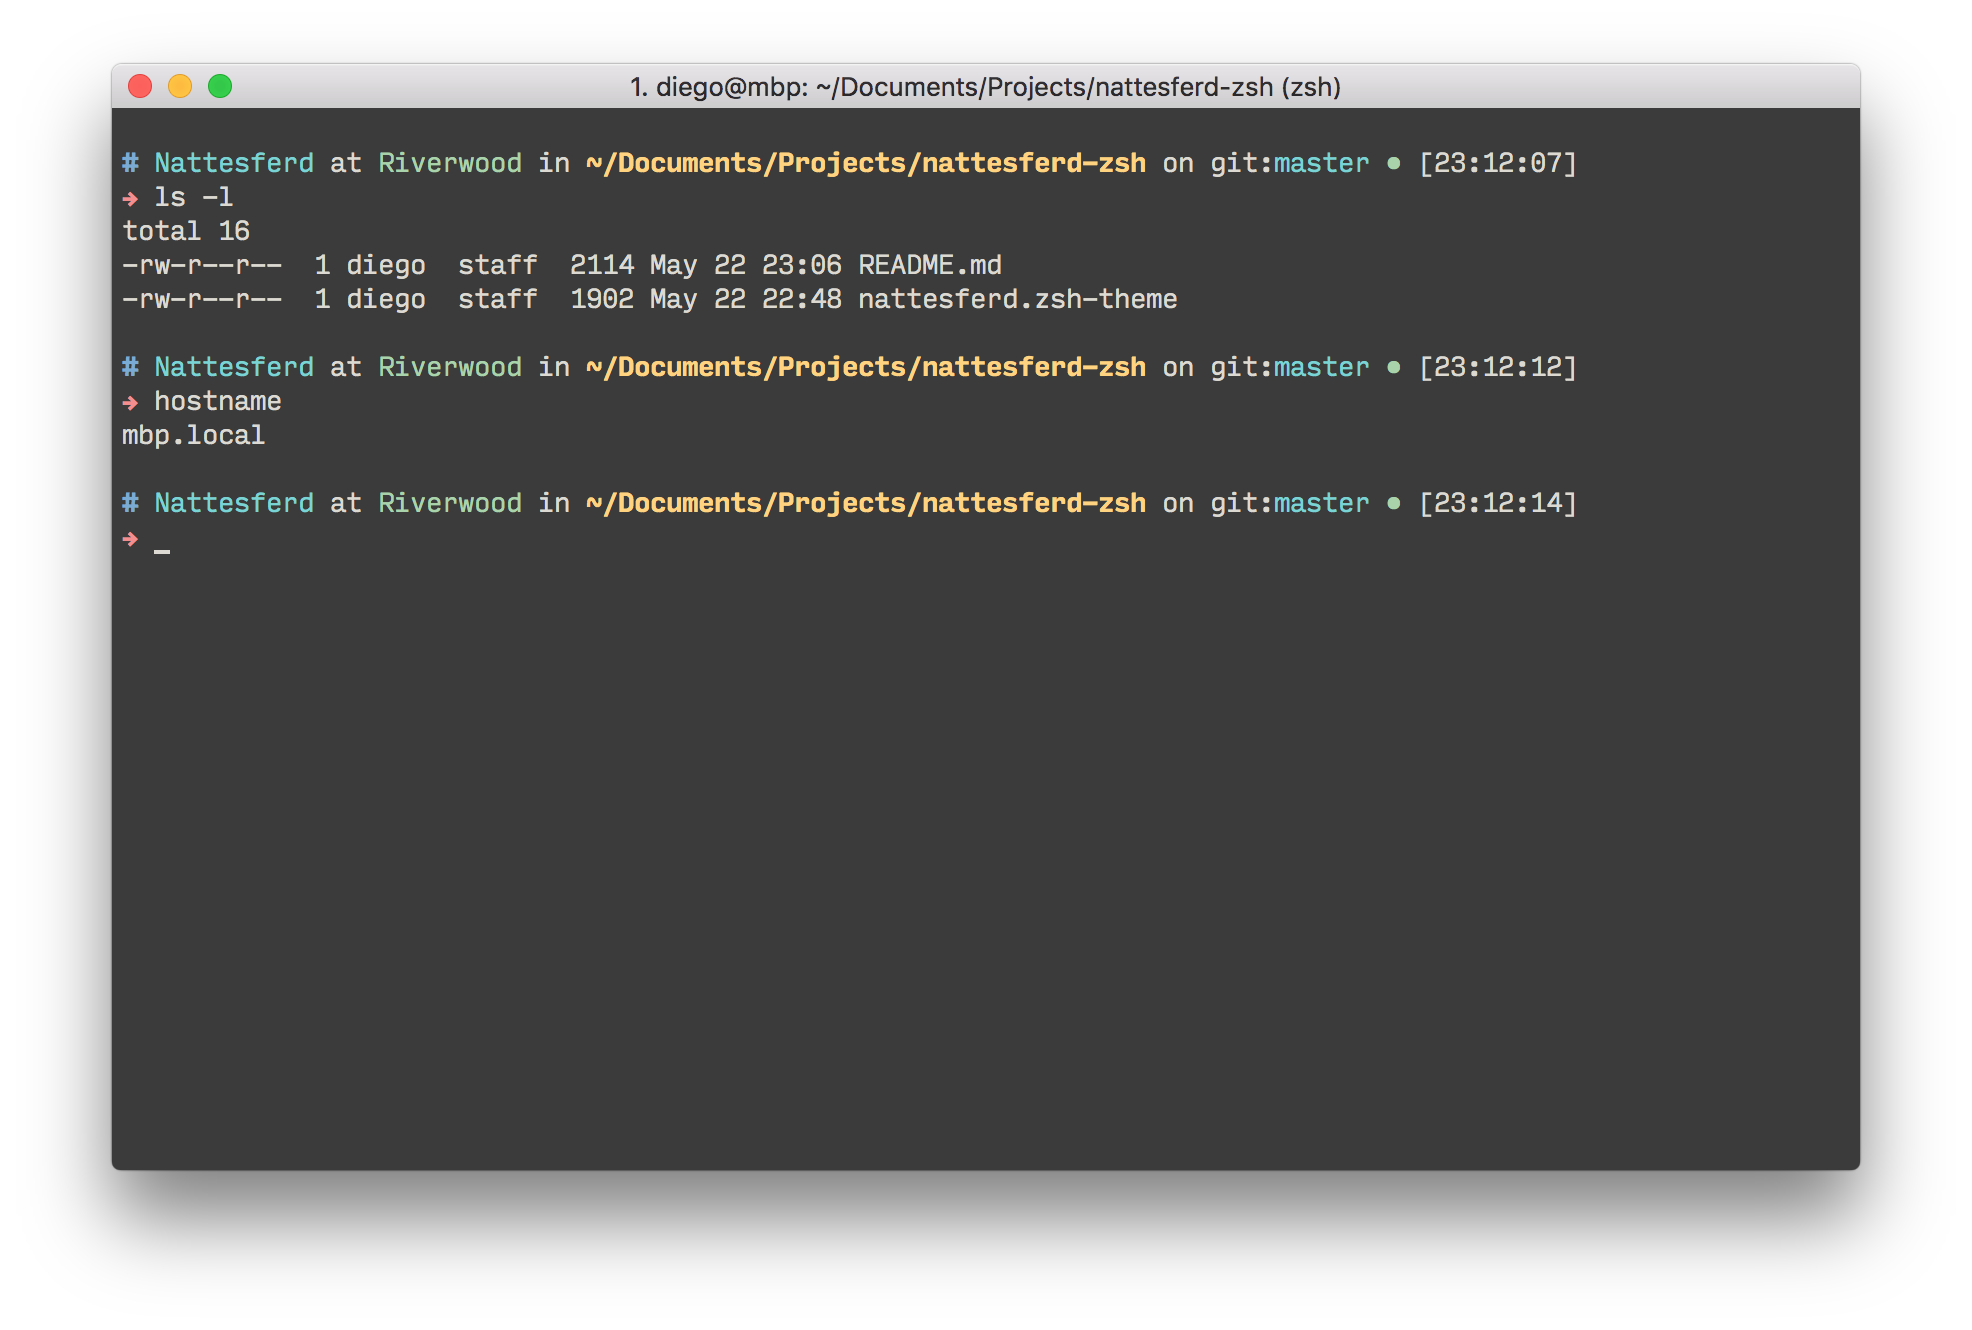
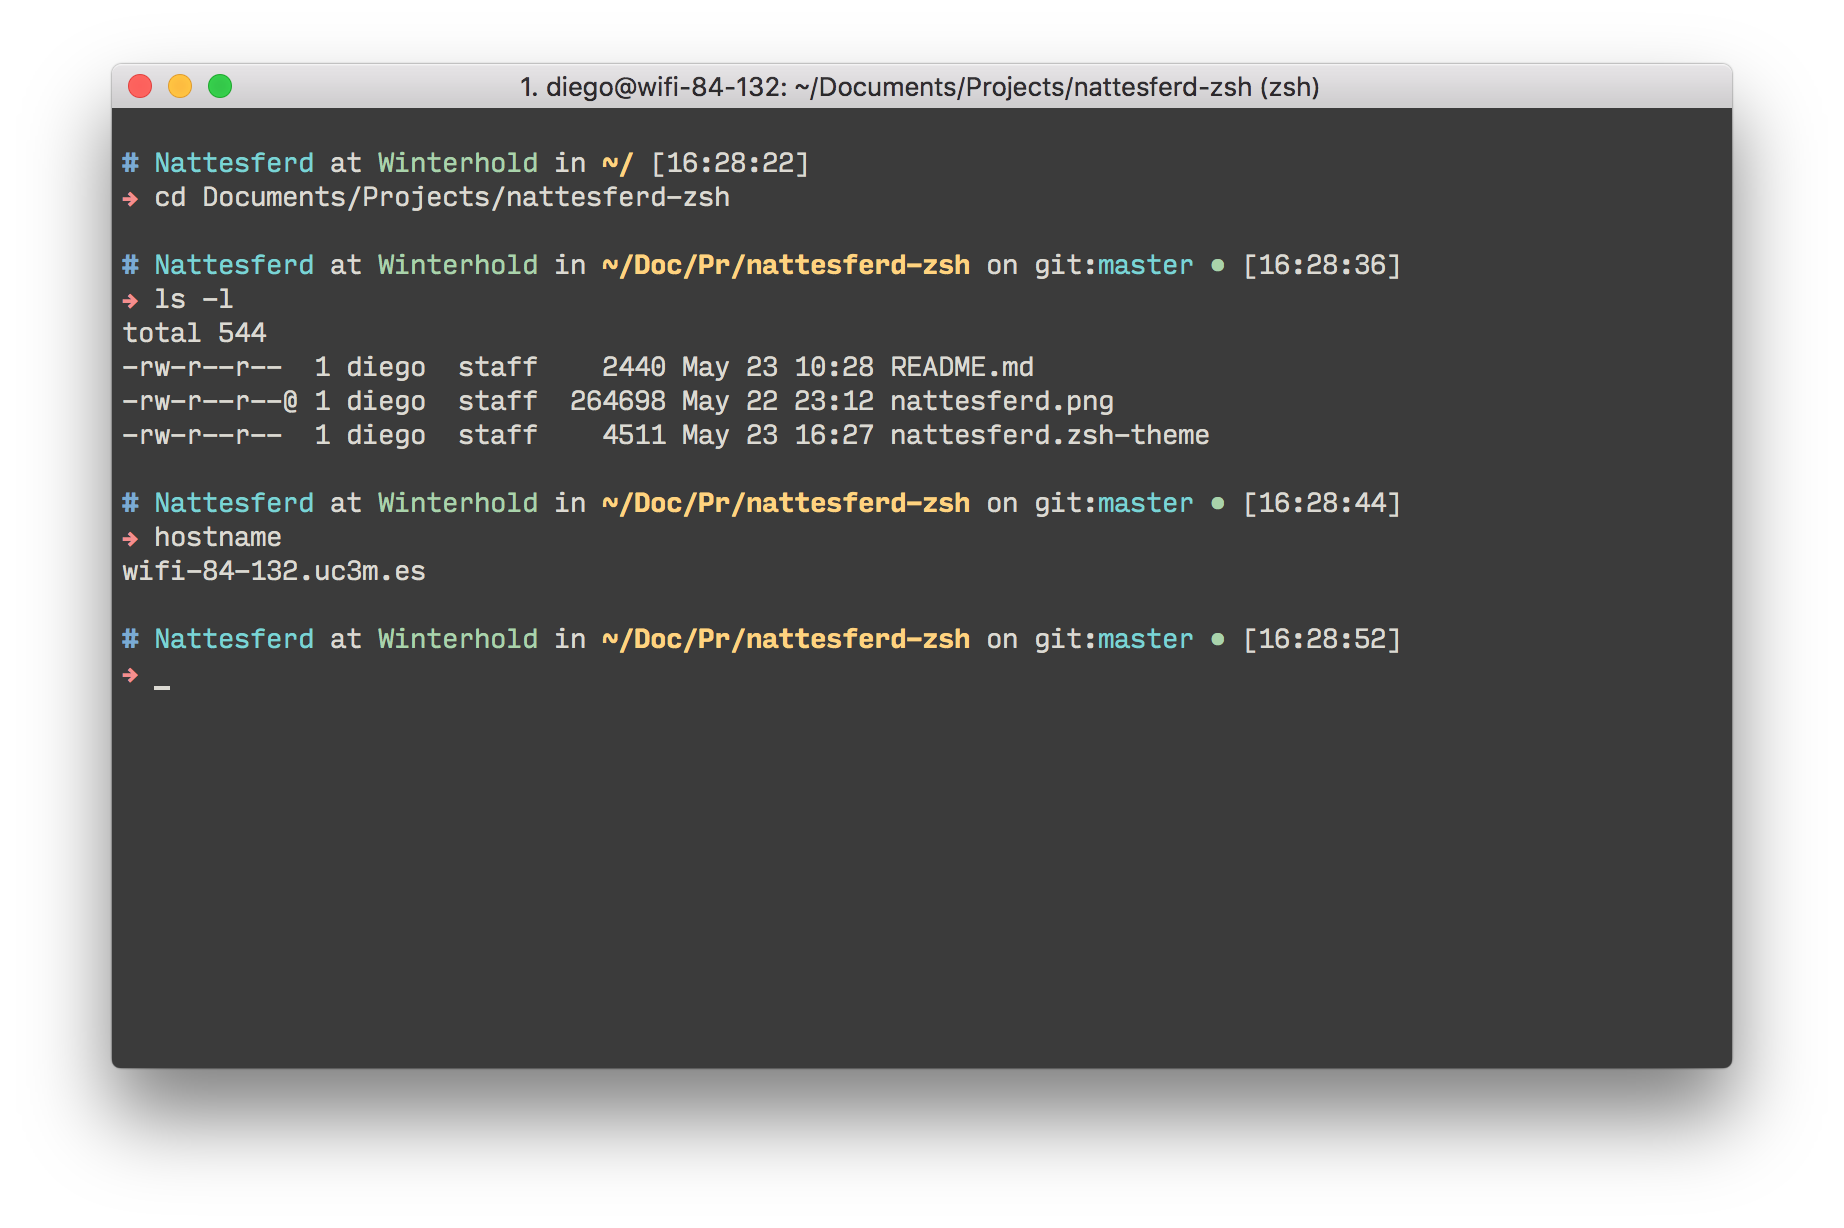
Wonderful README

Changed region(s): [[0.0309, 0.0309, 0.9582, 0.8974], [0.6182, 0.1857, 0.8037, 0.2785]]

diff --git a/README.md b/README.md
@@ -6,7 +6,7 @@
 
 ### Theme
 
-The theme is a fork from [Honukai](https://github.com/oskarkrawczyk/honukai-iterm-zsh), based on the wonderfully made [ys](https://github.com/robbyrussell/oh-my-zsh/blob/master/themes/ys.zsh-theme) theme from the official [oh-my-zsh repo](https://github.com/robbyrussell/oh-my-zsh). It's main feature is the ability to change the hostname displayed to custom aliases (as well as the username), without changin any global variables or other configuration files. Nattesferd is possible thanks to the help of [mcornella](https://github.com/mcornella).
+The theme is a fork from [Honukai](https://github.com/oskarkrawczyk/honukai-iterm-zsh), based on the wonderfully made [ys](https://github.com/robbyrussell/oh-my-zsh/blob/master/themes/ys.zsh-theme) theme from the official [oh-my-zsh repo](https://github.com/robbyrussell/oh-my-zsh). It's main features are the ability to change the hostname displayed to custom aliases (as well as the username), as well as the intelligent path shortener that uses to display your actual directory. Nattesferd is possible thanks to the help of [mcornella](https://github.com/mcornella).
 
 ### Installation
 
@@ -24,6 +24,11 @@ The theme is a fork from [Honukai](https://github.com/oskarkrawczyk/honukai-iter
 3. Once you have added the alias, run `source ~/.zshrc` to make the changes effective.
 
 If no alias is found, the prompt will display the default value of `$HOST` or `$USER`.
+
+### Path shortener
+
+The path displayed in Nattesferd is not the complete path of the actual directory. Instead, Nattesferd displays the complete name of the current directory and the shortest meaningful prefix for any parent directory. That means that the part of the name displayed is the minimum necessary to uniquely identify the directory. As a nmemonic, you can also think that the name displayed is the minimum necessary for tab-completion to work instantly (only one possible completion). This feature is completely implemented in shell script and is inspired by [this answer in StackOverfow](http://stackoverflow.com/a/2951707).
+
 
 ### Eyecandy
 
